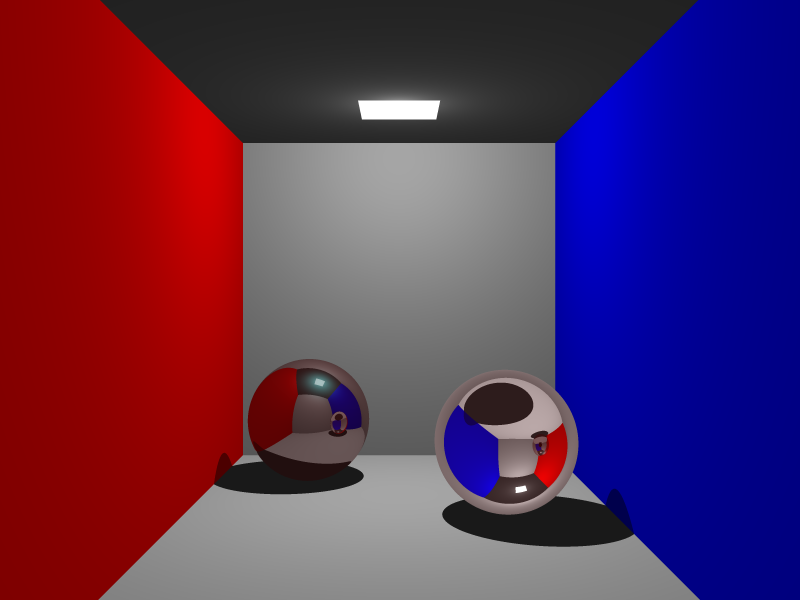
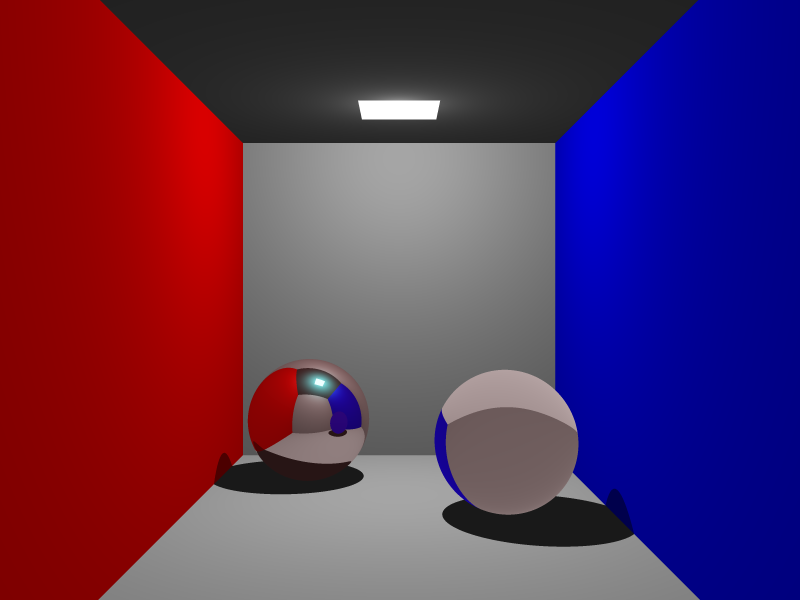
Fix of refraction

Changed region(s): [[0.5312, 0.6, 0.7188, 0.87], [0.3125, 0.6, 0.4688, 0.78]]

diff --git a/VCG_Raytracer/src/raytracer/Intersection.java b/VCG_Raytracer/src/raytracer/Intersection.java
@@ -25,17 +25,16 @@ public class Intersection {
 
     public Ray calculateReflectionRay() {
         // like in Phong, but take vector opposite to incoming direction
-        Vec3 directN = mInRay.getDirection().negate().normalize();
+        Vec3 directN = mInRay.getDirection();//.negate();
         return calculateReflectionRay( directN );
     }
 
     public Ray calculateReflectionRay( Vec3 inDir ) {
-        float angle = mNormal.scalar( inDir );
-        mNormal = mNormal.normalize();
-        Vec3 reflVec = mNormal.multScalar(angle).multScalar(2f);
-        reflVec = reflVec.sub( inDir ).normalize();
+        float normDotIn = mNormal.scalar( inDir.normalize() );
 
-        return new Ray(mIntersectionPoint, reflVec, Float.MAX_VALUE);
+        Vec3 r = inDir.sub(mNormal.multScalar(normDotIn).multScalar(2f));
+
+        return new Ray(mIntersectionPoint, r, Float.MAX_VALUE);
     }
 
     public Ray calculateRefractionRay() {
@@ -53,17 +52,14 @@ public class Intersection {
         float cosBetaDet = 1f - sinBeta2;
 
         if(cosBetaDet > 0) {
-            //float cosBeta = (float) Math.sqrt(cosBetaDet);
-            float cosBeta = (float) Math.sqrt(1.0f - sinBeta2 * (1.0f - normDotIn * normDotIn));
-            //Vec3 refDir = (mNormal.multScalar(normDotIn)).multScalar(n).sub(inRay).sub(mNormal.multScalar(nCosBeta));
+            float cosBeta = inRay.scalar(mNormal);
+            float sinSqrBeta = sinBeta2 * (1 - cosBeta * cosBeta);
 
-            //Ray refRay = new Ray(mIntersectionPoint.add(refDir.multScalar(0.001f)), refDir, Float.MAX_VALUE);
+            float a = n * cosBeta;
+            float b = (float) Math.sqrt(1 - sinSqrBeta);
 
-            Vec3 temp_b = mNormal.multScalar(cosBeta);
-            Vec3 temp_a = temp_b.negate().multScalar(cosBeta).sub(inRay).multScalar(n);
-            Vec3 refRay = temp_a.sub(temp_b);
-            return new Ray(mIntersectionPoint, refRay, Float.MAX_VALUE);
-            //return refRay;
+            Vec3 out = inRay.negate().multScalar(n).add(mNormal.multScalar(a - b));
+            return new Ray(mIntersectionPoint, out, Float.MAX_VALUE);
         }
         // Total internal reflection
         else{

diff --git a/VCG_Raytracer/src/Main.java b/VCG_Raytracer/src/Main.java
@@ -119,8 +119,8 @@ public class Main {
     private static void setupObjects(Scene renderScene) {
         float sphereRadius = 1;
         // Materials: AmbientMaterial Color, Diffuse Coeeff, Specular Coeff, Shininess, Material
-        Material sphereMaterial1 = new PhongMaterial(RgbColor.DARK_CUSTOM, RgbColor.DARK_CUSTOM, new RgbColor(0.2f, 0.9f, 0.9f), PhongMaterial.SHINY, Material.HALF_REFLECTION, Material.NO_TRANSMISSION, 1);
-        Material sphereMaterial2 = new PhongMaterial(RgbColor.DARK_CUSTOM, RgbColor.DARK_CUSTOM, RgbColor.DARK_CUSTOM, PhongMaterial.VERY_SHINY, Material.NO_REFLECTION, Material.DIAMOND, 1);
+        Material sphereMaterial1 = new PhongMaterial(RgbColor.DARK_CUSTOM, RgbColor.DARK_CUSTOM, new RgbColor(0.2f, 0.9f, 0.9f), PhongMaterial.SHINY, Material.MOST_REFLECTION, Material.NO_TRANSMISSION, 1);
+        Material sphereMaterial2 = new PhongMaterial(RgbColor.DARK_CUSTOM, RgbColor.DARK_CUSTOM, RgbColor.DARK_CUSTOM, PhongMaterial.VERY_SHINY, Material.NO_REFLECTION, Material.GLASS, 1);
 
         renderScene.createSphere(new Vec3(-DIMENSION/2f, -DIMENSION + sphereRadius, -DIMENSION/3f+3), sphereMaterial1, sphereRadius);
         renderScene.createSphere(new Vec3(DIMENSION/2f, -DIMENSION + sphereRadius, DIMENSION/3f+3), sphereMaterial2, sphereRadius);

diff --git a/VCG_Raytracer/src/scene/materials/Material.java b/VCG_Raytracer/src/scene/materials/Material.java
@@ -20,6 +20,7 @@ public abstract class Material {
     public static float MOST_REFLECTION = 0.75f;
     public static float HALF_REFLECTION = 0.5f;
     public static float TINY_REFLECTION = 0.1f;
+    public static float NANO_REFLECTION = 0.05f;
     public static float NO_REFLECTION = 0f;
 
     protected RgbColor ambiCoeff;
@@ -47,8 +48,8 @@ public abstract class Material {
 
     protected void calculateMaterialCoeff(float fractionCoeff){
         if (fractionCoeff != 0) {
-            this.fractionCoeff = fractionCoeff / Material.AIR ;
-            this.switchedFractionCoeff = Material.AIR / fractionCoeff;
+            this.switchedFractionCoeff = fractionCoeff / Material.AIR ;
+            this.fractionCoeff = Material.AIR / fractionCoeff;
         }
     }
 
